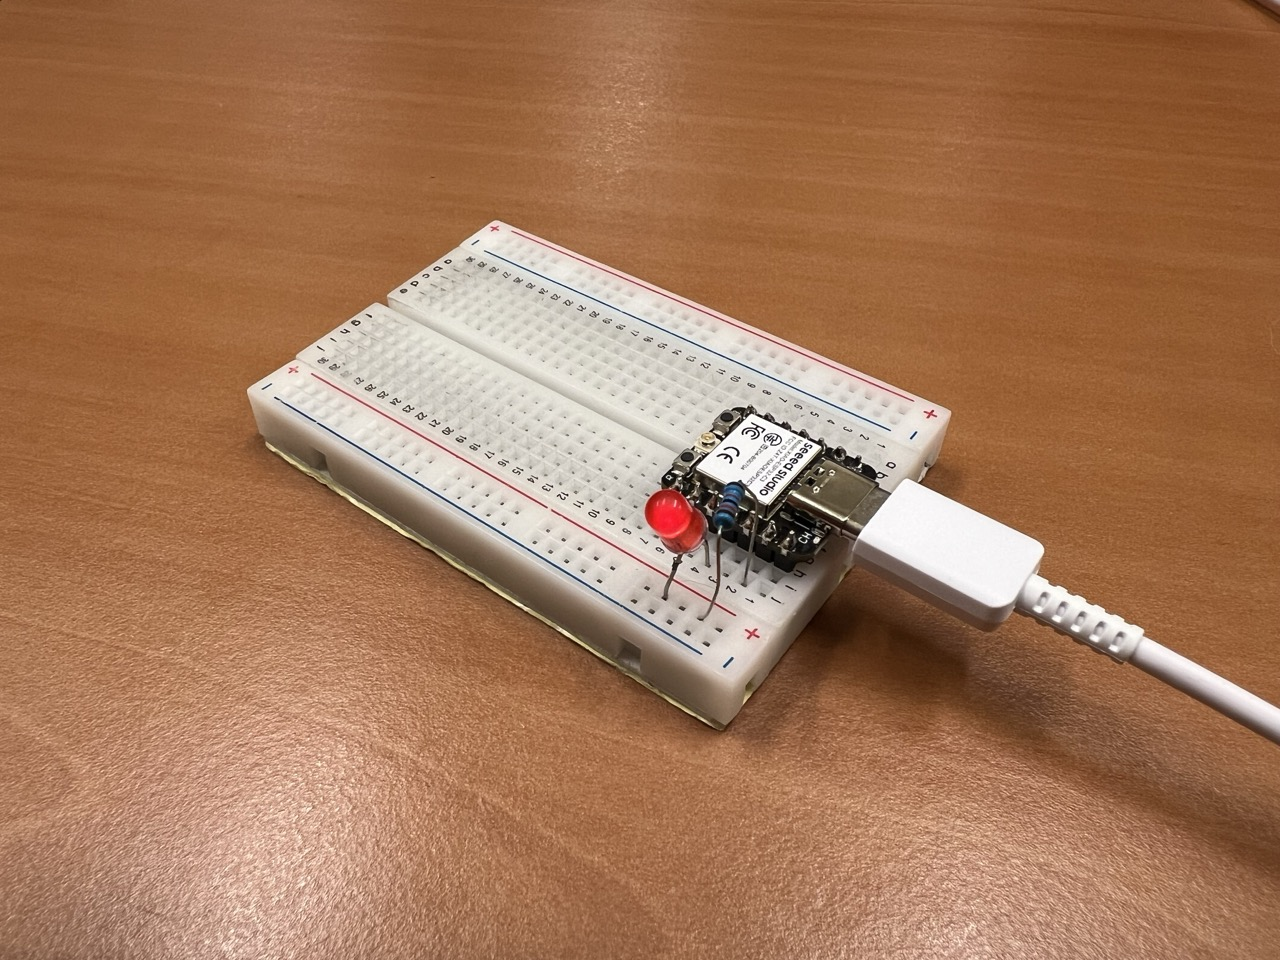
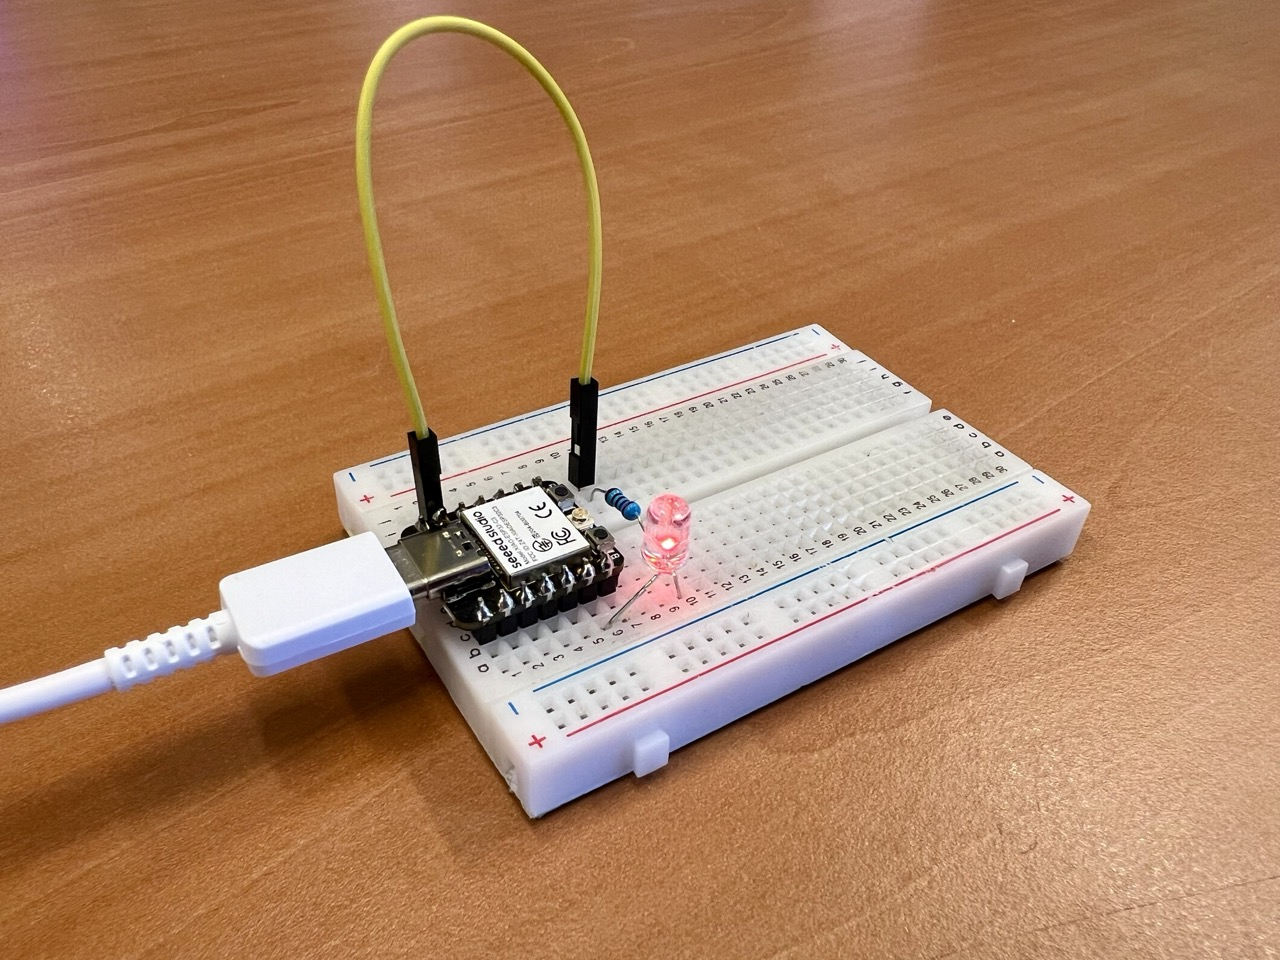
Update project descriptions

diff --git a/README.md b/README.md
@@ -79,43 +79,43 @@ If you're experiencing any problems you can try to clean the flash, follow steps
 
 ![](media/blinky.jpeg)
 
-For the first project we'll create what is known as the "hello world" for hardware, we'll make a LED blink!
+For the first project we'll create what is known as the "hello world" for hardware, we'll make an LED blink!
 
 ![](media/lesson_1.png)
 
 Connect the components according to the schematic displayed above.
 
-You can find the code for this project in `src/blinky.ts`. To run the code, replace the contents of `src/main.ts` with `import "./blinky";`. Play around with the code, change the interval in which the LED blinks up.
+You can find the code for this project in `src/blinky.ts`. To run the code, replace the contents of `src/main.ts` with `import "./blinky";`. Play around with the code, e.g., change the interval in which the LED blinks up.
 
 ## Project 2: Input
+
+![](media/input.jpeg)
 
 We'll now use a button to make the LED light up.
 
 ![](media/lesson_2.png)
 
-You can find the code for this project in `src/blinky.ts`. To run the code, replace the contents of `src/main.ts` with `import "./input";`. Play around with the code, e.g., have the LED light up in a certain pattern (morse), or let the LED blink in a certain interval based on how long you press the button for (advanced).
+You can find the code for this project in `src/blinky.ts`. To run the code, replace the contents of `src/main.ts` with `import "./input";`. Play around with the code, e.g., dim the LED on a button press (tip: add `dimmable: true` to `startLightBulb`).
 
 ## Project 3: PIM
+
+![PIM board connected to ESP32](media/pim.jpeg)
 
 Now let's connect PIM. PIM is a custom designed PCB - which means you don't need a breadboard anymore. It contains 4 buttons and 4 LEDs. You can find the code for this project in `src/pim.ts`. To run the code, replace the contents of `src/main.ts` with `import "./pim";`.
 
 The provided example demonstrates the basic functionality of toggling an LED on or off in response to a button press.
 
-Experiment with the code. Some examples of what you can make in order of complexity:
-
-- Let the LEDs light up in sequence or another pattern
-- Create a digital dice roller
-- Create a reaction time game where a random LED serves as the target. You can even post the reaction times to a server to create a high-score list!
-- Simon Says (see `src/simon-says.ts`)
+Experiment with the code, e.g., make the LEDs blink up in some sequence.
 
 ## Project 4: it's your turn!
 
-DeviceScript has great documentation and examples. Check out [their website](https://microsoft.github.io/devicescript/samples/temperature-mqtt) to get going. Beware, this documentation is not specifically made for the hardware you have. To understand which connectors need to go where you can check out the pinout reference of the ESP32C3 below.
+Now it's your turn to play around with the hardware and software! You can extend any of the above projects, or create something new. Here are some ideas:
+
+- Create a digital dice roller with the PIM.
+- Create a reaction time game where a random LED serves as the target. You can even post the reaction times to a server to create a high-score list!
+- Create Simon Says.
+- Create a temperature sensor that publishes to MQTT. A temperature sensor (SHT30) is provided! You can follow this guide: https://microsoft.github.io/devicescript/samples/temperature-mqtt. Note: you'll have to make some adjustments for the hardware provided. MQTT is a protocol specifically designed to send and receive small messages, especially dealing with IoT devices. You can use the [MQTT Explorer](http://mqtt-explorer.com/) to inspect the messages being sent.
+
+Refer to the pinout diagram below when connecting components.
 
 ![Seeed Studio XIAO ESP32C3 pinout reference](media/esp.png)
-
-The sensor the measure temperature is the [SHT30](https://microsoft.github.io/devicescript/api/drivers/sht30). If you look closely on the board, you will a few things laid out. Don't worry too much if you haven't paid attention during your physics class. It's just a matter of reading (see the schema above, and read the text on the SHT30)!
-
-The goal is: **connect a temperature sensor to the microcontroller and send the temperature to an MQTT broker** like [Adafruit MQTT](https://learn.adafruit.com/adafruit-io/mqtt-api). MQTT is a protocol specifically designed to send and receive small messages, especially dealing with devices. You can use the [MQTT Explorer](http://mqtt-explorer.com/) to see the messages being sent.
-
-Now you can measure and read the temperature anywhere!
